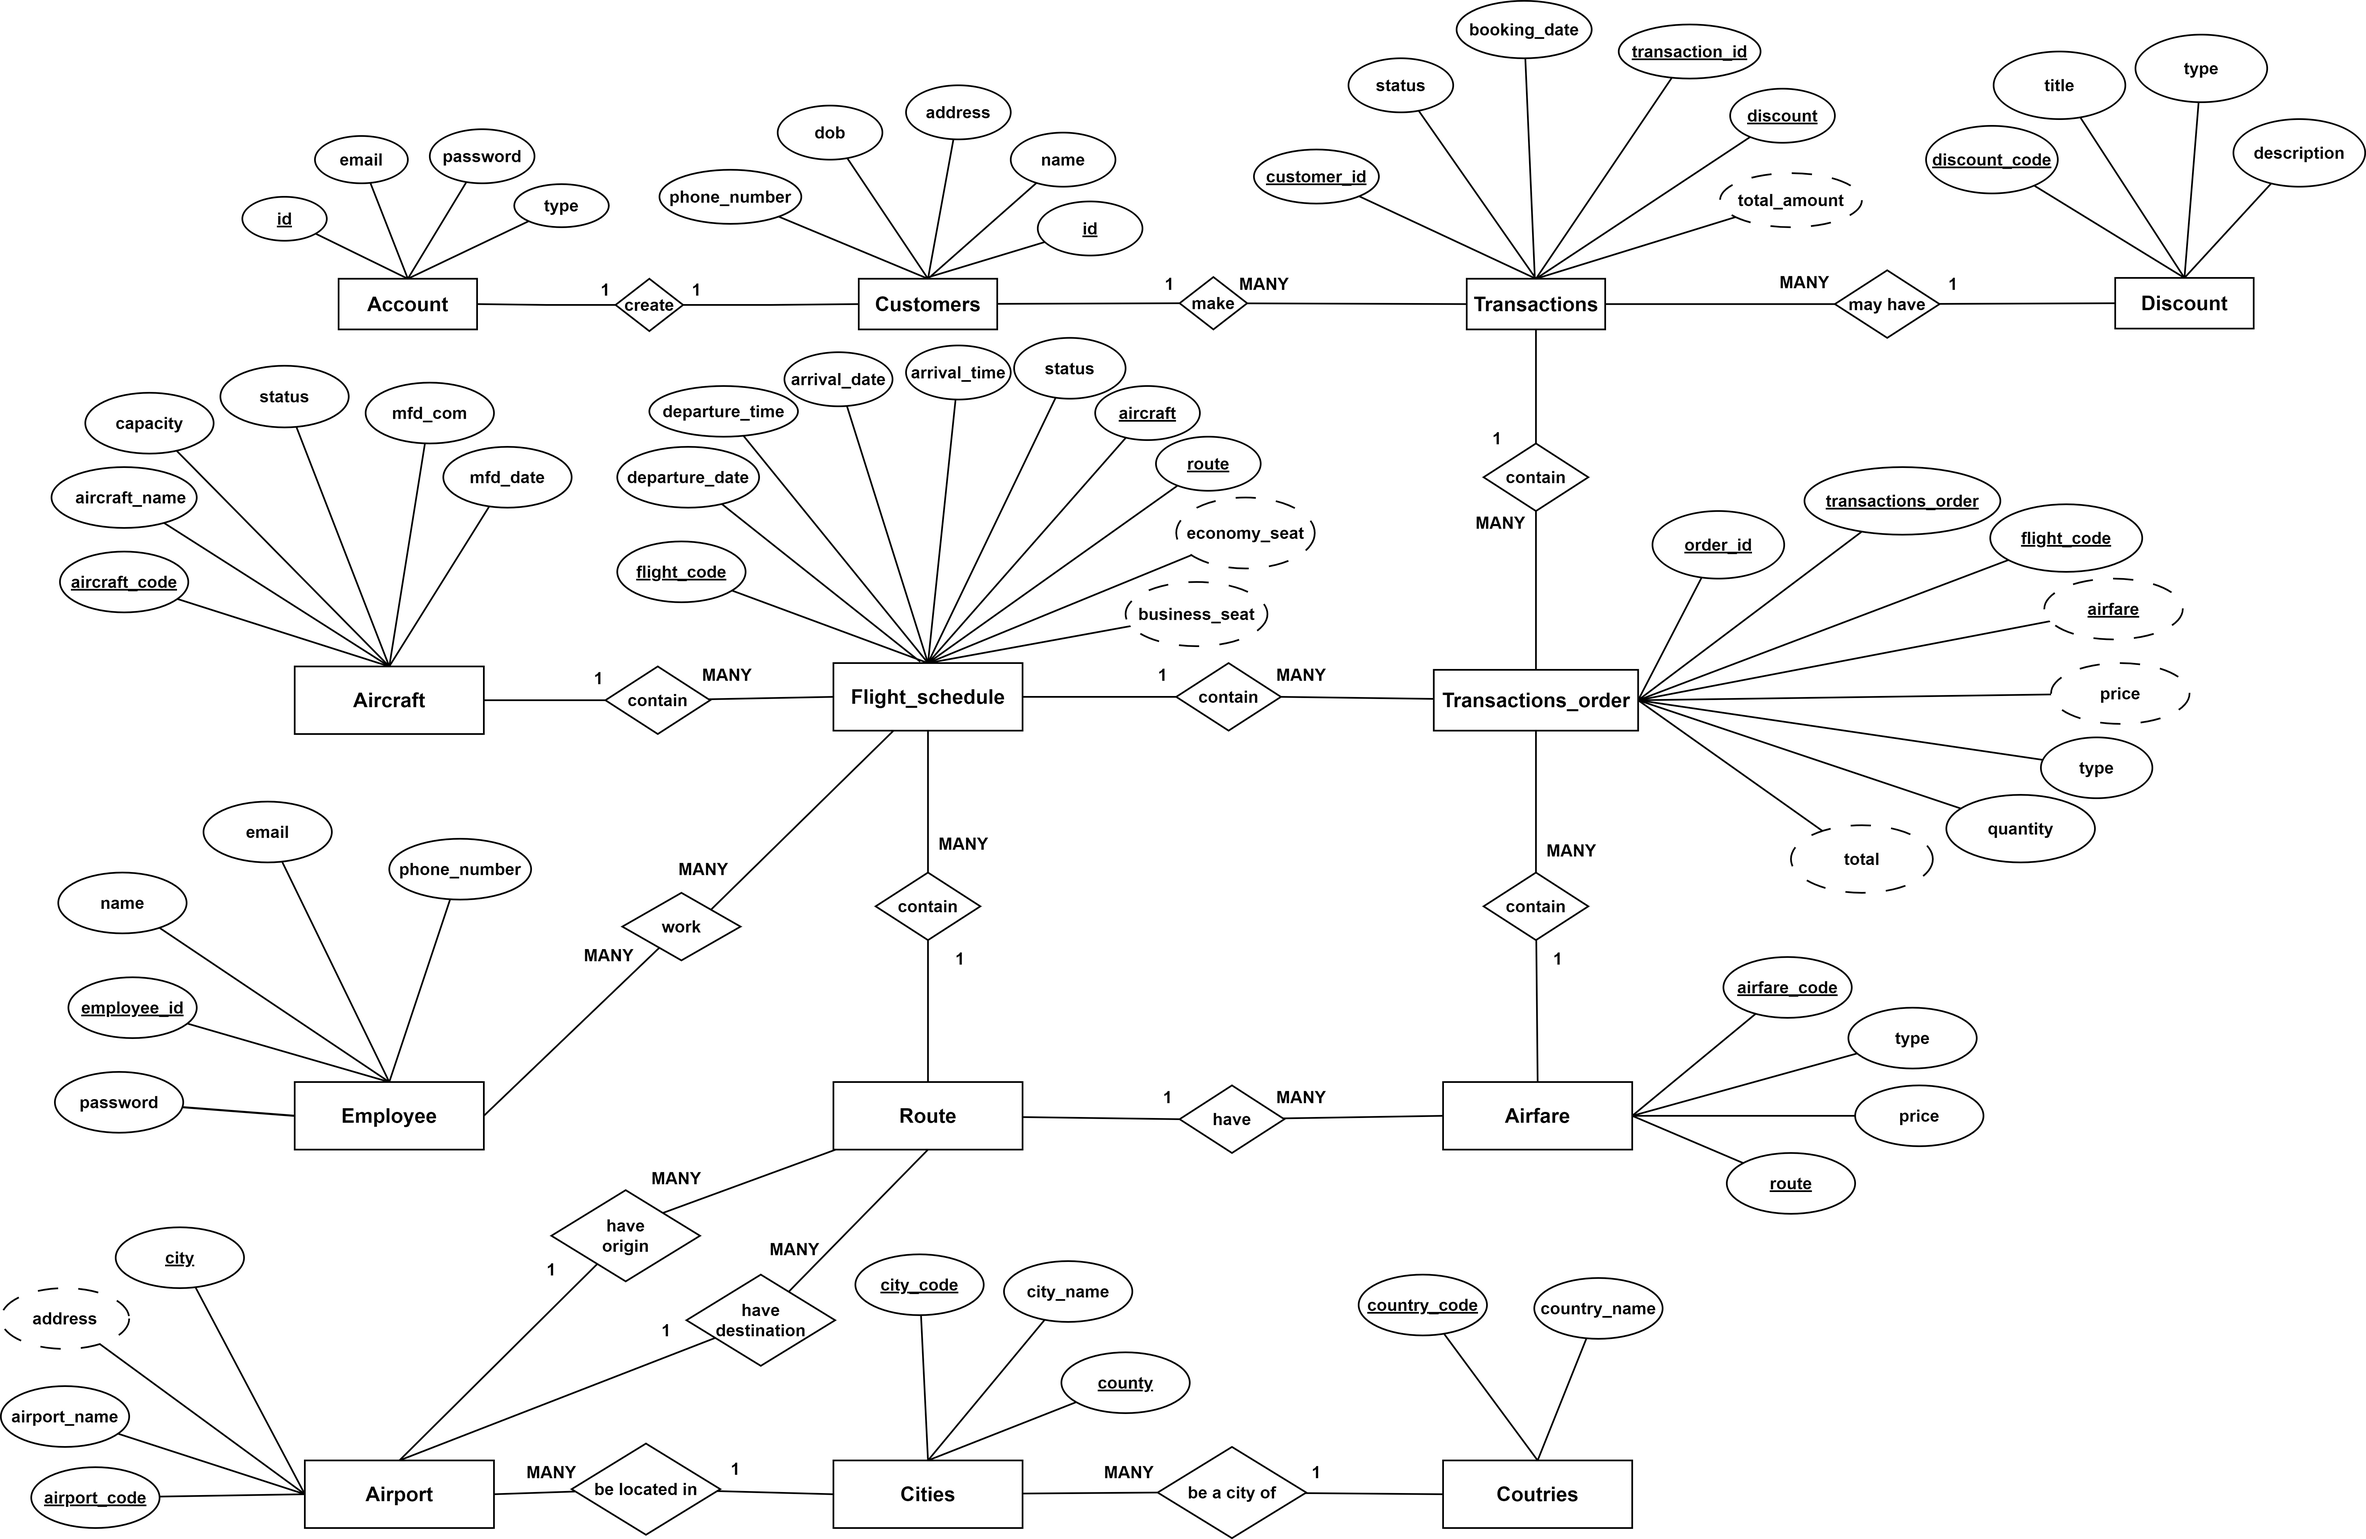
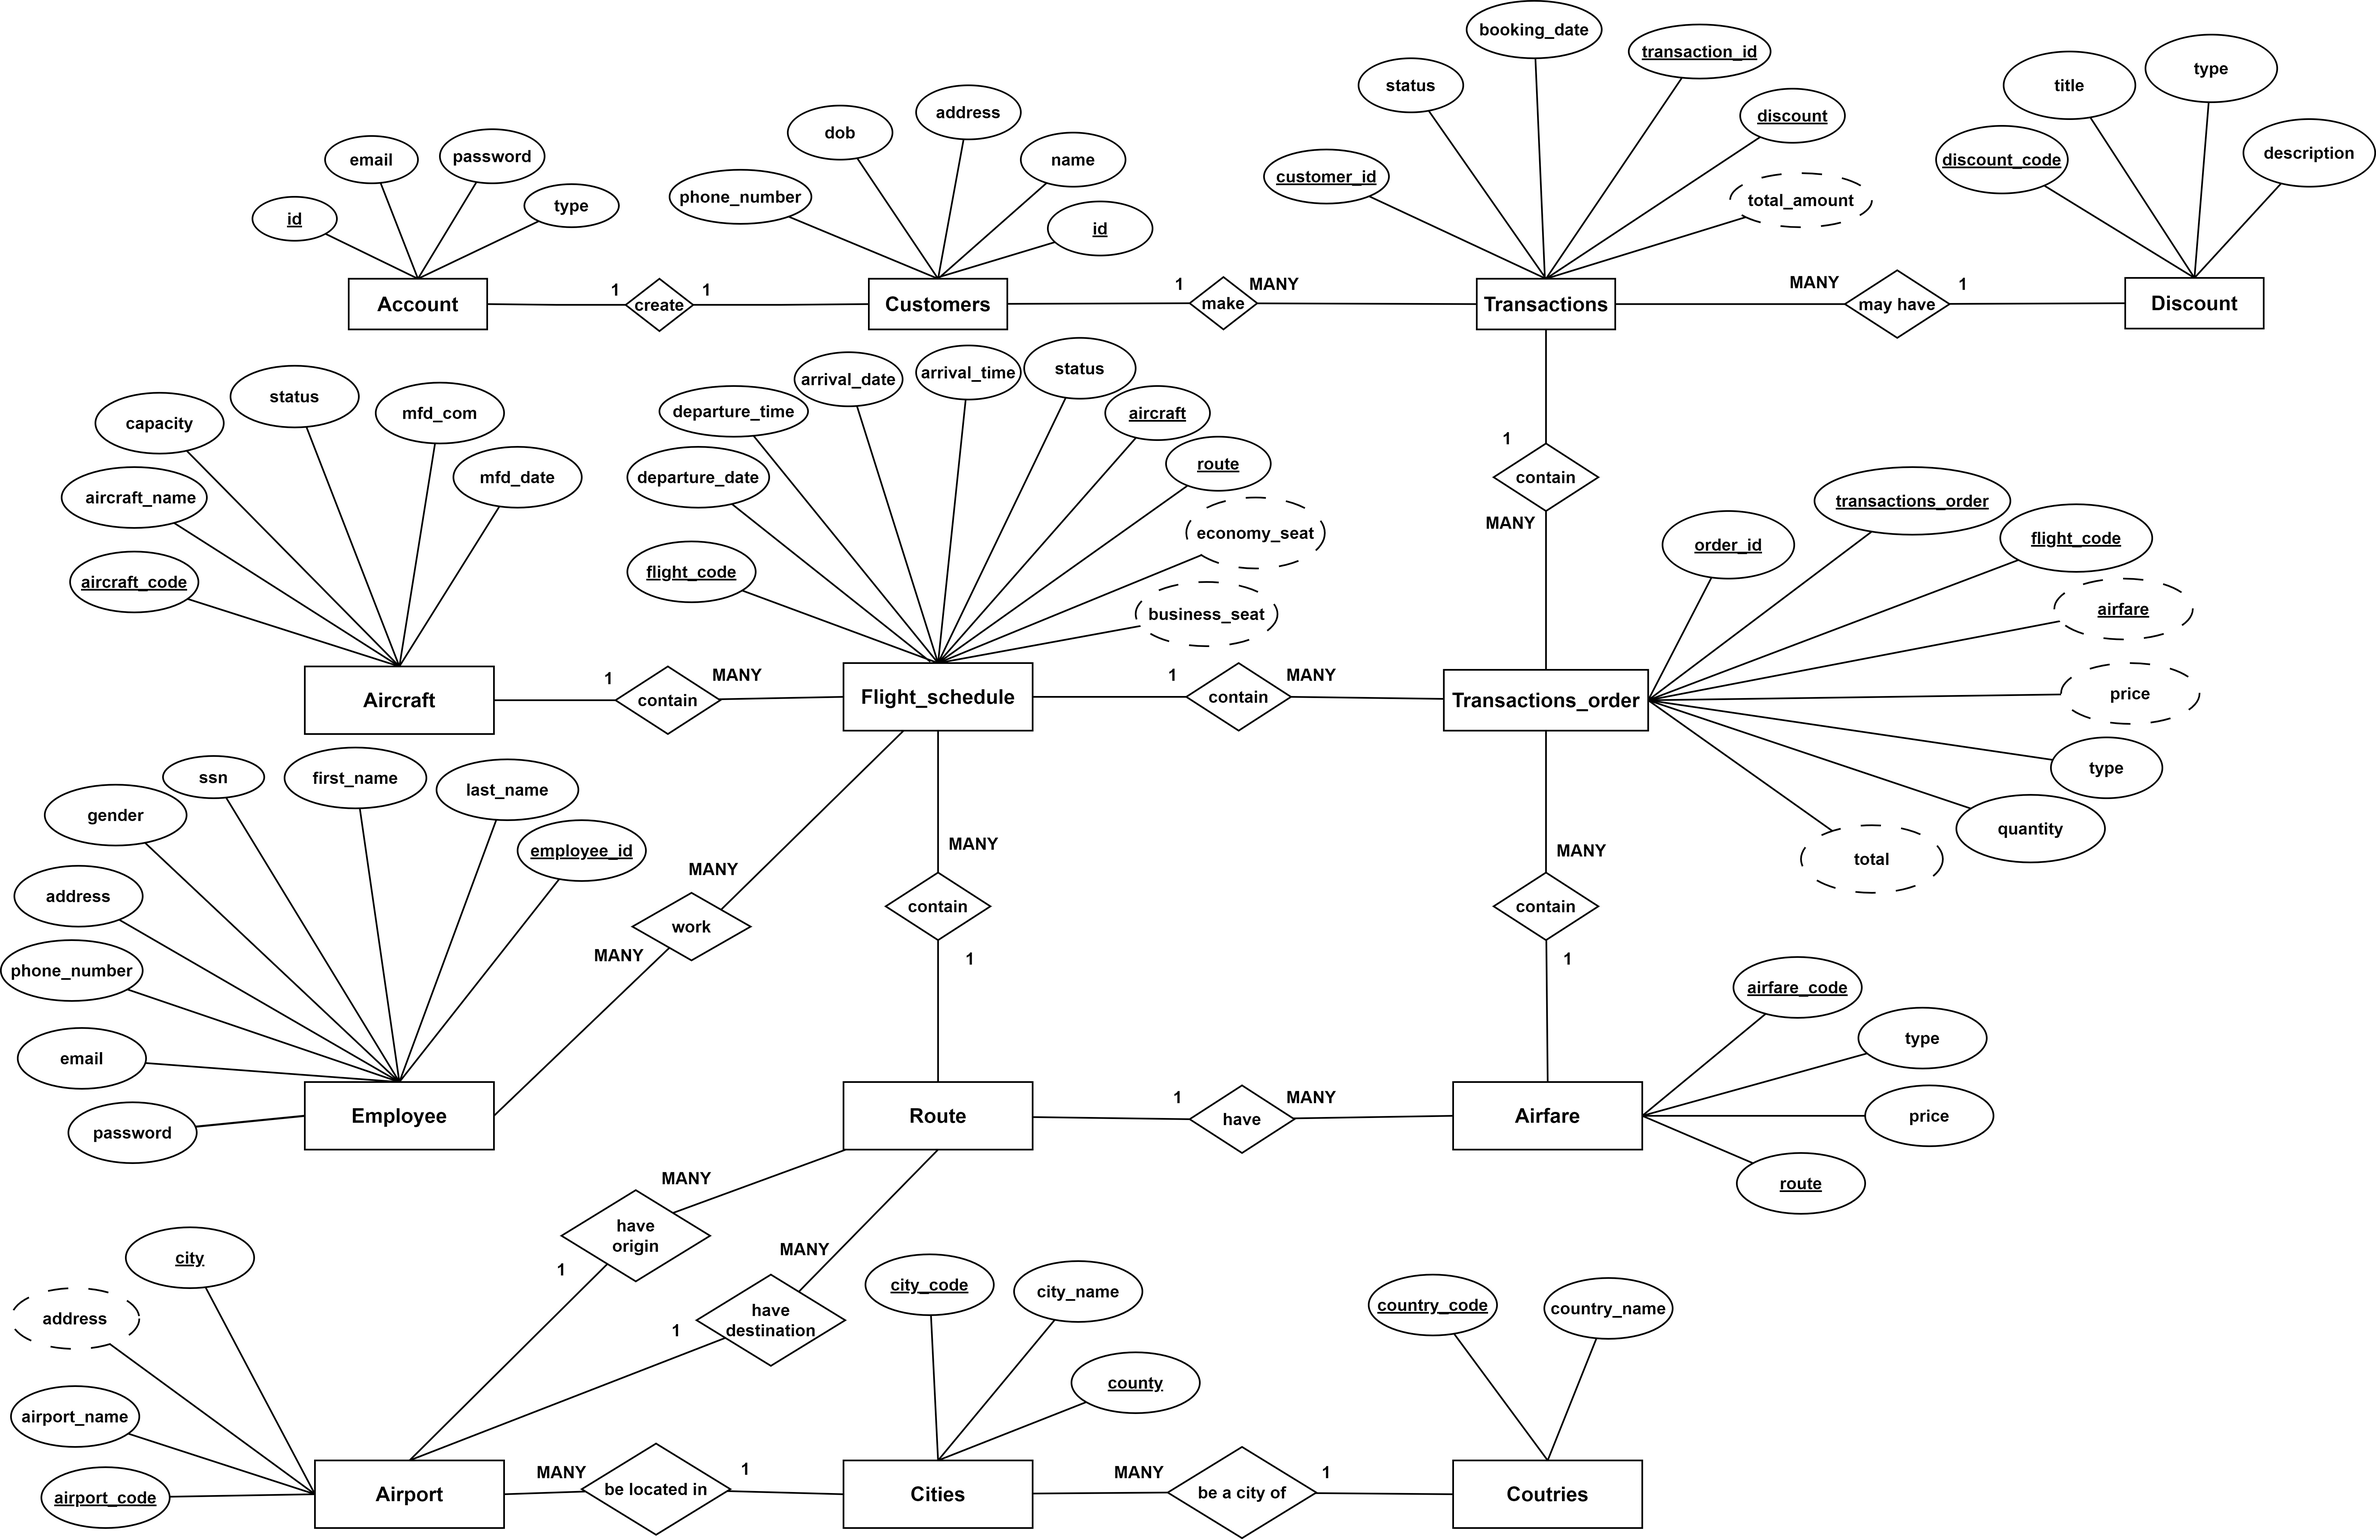
Update README + new schema

diff --git a/routes/staff_admin.js b/routes/staff_admin.js
@@ -7,9 +7,11 @@ async function fetchStaff(flight_code) {
   const client = await db.connect();
   try {
     const result = await client.query(
-      "SELECT (e.first_name || ' ' || e.last_name) as full_name, e.phone_number, e.email, s.*, fs.departure_date, fs.departure_time, fs.arrival_date, fs.arrival_time, fs. route, fs.status FROM employee e JOIN flight_staff s ON e.employee_id = s.employee_id JOIN flight_schedule fs ON s.flight_code = fs.flight_code WHERE s.flight_code = $1",
+      /* "SELECT (e.first_name || ' ' || e.last_name) as full_name, e.phone_number, e.email, s.*, fs.departure_date, fs.departure_time, fs.arrival_date, fs.arrival_time, fs. route, fs.status FROM employee e LEFT JOIN flight_staff s ON e.employee_id = s.employee_id JOIN flight_schedule fs ON s.flight_code = fs.flight_code WHERE s.flight_code = $1", */
+      "SELECT fs.flight_code, fs.departure_date, fs.departure_time, fs.arrival_date, fs.arrival_time, fs. route, fs.status, e.employee_id, (e.first_name || ' ' || e.last_name) as full_name, e.phone_number, e.email FROM flight_schedule fs LEFT JOIN flight_staff fst ON fs.flight_code = fst.flight_code LEFT JOIN employee e ON fst.employee_id = e.employee_id WHERE fs.flight_code = $1",
       [flight_code],
     );
+    console.log(result.rows);
     if (result.rows.length === 0) {
       return [];
     }
@@ -98,7 +100,7 @@ router.post("/staff", isLoggedInAdmin, async (req, res) => {
         req.session.userInput = req.body;
         const error_message = `Flight ${flight_code1} is canceled`;
         req.flash("error", error_message);
-        res.redirect("/staff");
+        res.redirect(`/staff?fcode=${flight_code1}`);
         return;
       }
 
@@ -122,7 +124,7 @@ router.post("/staff", isLoggedInAdmin, async (req, res) => {
         const error_message =
           `Employee ${employee_id1} is already assigned to flight ${flight_code1}`;
         req.flash("error", error_message);
-        res.redirect("/staff");
+        res.redirect(`/staff?fcode=${flight_code1}`);
         return;
       }
       // const overlapsSchedule1 = await db.query(
@@ -142,7 +144,7 @@ router.post("/staff", isLoggedInAdmin, async (req, res) => {
         const error_message =
           `Flight ${flight_code1} has already departed!! You can't add staff to this flight`;
         req.flash("error", error_message);
-        res.redirect("/staff");
+        res.redirect(`/staff?fcode=${flight_code1}`);
         return;
       }
       if (timeDifferece < 30 * 60 * 1000) {
@@ -150,7 +152,7 @@ router.post("/staff", isLoggedInAdmin, async (req, res) => {
         const error_message =
           `Flight ${flight_code1} is departing in less than 30 minutes!! You can't add staff to this flight`;
         req.flash("error", error_message);
-        res.redirect("/staff");
+        res.redirect(`/staff?fcode=${flight_code1}`);
         return;
       }
       const overlapsSchedule1 = await db.query(
@@ -172,11 +174,11 @@ router.post("/staff", isLoggedInAdmin, async (req, res) => {
       if (result.rows.length === 0) {
         req.session.userInput = req.body;
         req.flash("error", "Error inserting staff data");
-        res.redirect("/staff");
+        res.redirect(`/staff?fcode=${flight_code1}`);
         return;
       } else {
         req.flash("success", "Successfully added staff");
-        res.redirect("/staff");
+        res.redirect(`/staff?fcode=${flight_code1}`);
         return;
       }
     } else if (action === "delete") {
@@ -210,7 +212,7 @@ router.post("/staff", isLoggedInAdmin, async (req, res) => {
         const error_message =
           `Employee ${employee_id2} is not assigned to flight ${flight_code2}`;
         req.flash("error", error_message);
-        res.redirect("/staff");
+        res.redirect(`/staff?fcode=${flight_code2}`);
         return;
       }
       const result = await db.query(
@@ -227,7 +229,7 @@ router.post("/staff", isLoggedInAdmin, async (req, res) => {
         // res.redirect("/staff");
         // return;
       }
-      res.redirect("/staff");
+      res.redirect(`/staff?fcode=${flight_code2}`);
       return;
     } else {
       req.flash("error", "Invalid action");

diff --git a/README.md b/README.md
@@ -8,6 +8,12 @@ management database system. The primary objective is to facilitate efficient
 management for both administrators and customers in accessing and handling
 information pertaining to the airline's operations and services.
 
+## Overview
+
+### Datbase Schema
+
+![Architecture](https://github.com/hmd7284/Airline_Project/blob/main/query/Relational_Model.png)
+
 ### Technical Specifications
 
 - Frontend: EJS, CSS, Javascript
@@ -16,16 +22,22 @@ information pertaining to the airline's operations and services.
 
 ### Features
 
-- Authentication: Login, signup
+- Authentication: Login, signup, update password
 - Authorization:
   - Restrict users, admin, guides what they can do
 - Admin:
   - An admin account is provided
-  - Airport, Airplane, Schedule, Route, Discount, Revenue
+  - Airport, Airplane, Schedule, Route, Discount, Revenue, Employee, Staff
+    management
+- Employee:
+  - An employee account is provided
+  - Check working chedule
+  - Update profile, change password
 - Users:
-  - Search for upcoming flights
+  - Search for flights
   - Booking, cancel booking
   - Check booking history
+  - Update profile, change password
 
 ## Setup
 
@@ -37,6 +49,19 @@ information pertaining to the airline's operations and services.
 4. Import the project in any IDE that support the aforementioned programming
    languages.
 5. Deploy & Run the application with `npm run dev`
+
+## Project Structure
+
+    ├── pages               #EJS files # tables and queries used for this project
+    ├── public
+    ├── query               # tables and queries used for this project
+    ├── routes              #JS files
+    ├── .gitignore
+    ├── README.md
+    ├── database.js
+    ├── index.js
+    ├── package-lock.json
+    └── package.json
 
 ## Collaborators
 
